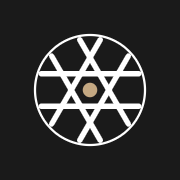
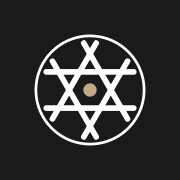
polish(brand): 修正光圈标记几何缺陷 + 图标集精修
- 修缺陷：叶片端点 r41 + 圆头帽 2.2 = 43.2 与外环内缘 43.1 相撞，6 处糊成暗块
  → 叶片收至 r38.5，与环内缘 42.9 留 2.1 干净间距
- 配平权重：外环 1.8 → 2.2（原细环被粗叶片"扎穿"，视觉失衡）
- 光圈开口 rHex 15 → 17，中心更透气；暖点 5.8 → 5.4 避免堵死开口
- app 图标：深色底改为极淡纵向渐变（#262626→#121212）增加纵深；标记占比 62%
- favicon-32 用无环粗体变体（笔画 7.2、开口 18），白色墨迹 13.7% → 15.4%
- 度量佐证：23px 亮底清晰比 83.4% → 89.4%（覆盖率≥0.6 的实笔画占比）

Changed region(s): [[0.1667, 0.1667, 0.8333, 0.8333]]

diff --git a/index.html b/index.html
@@ -644,7 +644,7 @@ html.dark #giscus-container {
 <body>
 
 <!-- 品牌标记 sprite：nav 与 footer 复用同一 aperture 标记 -->
-<svg width="0" height="0" style="position:absolute" aria-hidden="true"><symbol id="brand-mark" viewBox="0 0 96 96"><circle cx="48" cy="48" r="44" fill="none" stroke="currentColor" stroke-width="1.8"/><g stroke="currentColor" stroke-width="4.4" stroke-linecap="round"><line x1="39.8" y1="88.2" x2="78.7" y2="20.8"/><line x1="9.1" y1="61" x2="86.9" y2="61"/><line x1="17.3" y1="20.8" x2="56.2" y2="88.2"/><line x1="17.3" y1="75.2" x2="56.2" y2="7.8"/><line x1="9.1" y1="35" x2="86.9" y2="35"/><line x1="39.8" y1="7.8" x2="78.7" y2="75.2"/></g><circle cx="48" cy="48" r="5.8" fill="#c4a882"/></symbol></svg>
+<svg width="0" height="0" style="position:absolute" aria-hidden="true"><symbol id="brand-mark" viewBox="0 0 96 96"><circle cx="48" cy="48" r="44" fill="none" stroke="currentColor" stroke-width="2.2"/><g stroke="currentColor" stroke-width="4.6" stroke-linecap="round"><line x1="78.54" y1="24.55" x2="42.96" y2="86.17"/><line x1="83.57" y1="62.72" x2="12.43" y2="62.72"/><line x1="53.04" y1="86.17" x2="17.46" y2="24.55"/><line x1="17.46" y1="71.45" x2="53.04" y2="9.83"/><line x1="12.43" y1="33.28" x2="83.57" y2="33.28"/><line x1="42.96" y1="9.83" x2="78.54" y2="71.45"/></g><circle cx="48" cy="48" r="5.4" fill="#c4a882"/></symbol></svg>
 <!-- NAV -->
 <nav class="nav" id="nav">
   <a href="#" class="nav-logo" onclick="showPage('home');return false;" aria-label="STUDIO 摄影作品集 · 首页"><svg class="brand-mark" aria-hidden="true"><use href="#brand-mark"/></svg><span>STUDIO</span></a>
